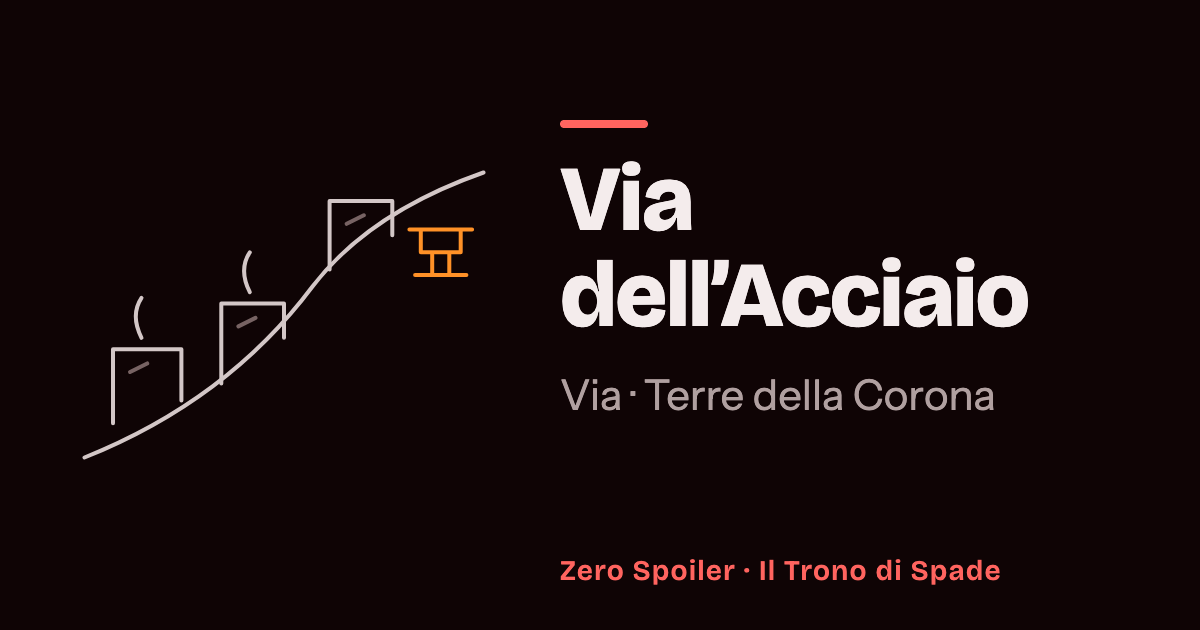
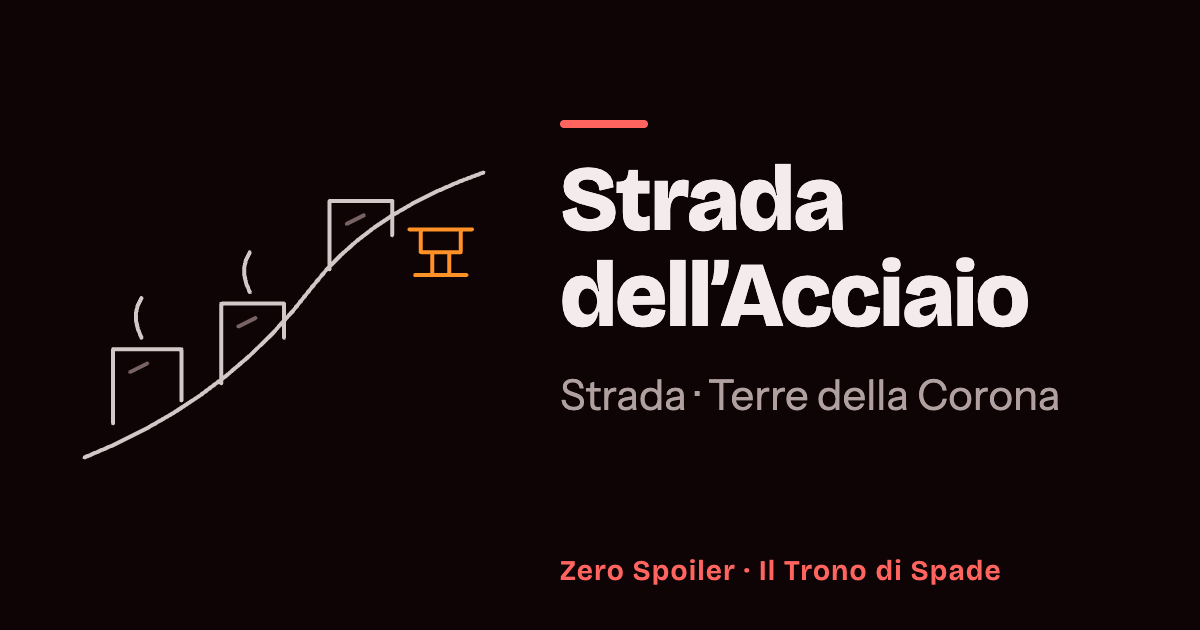
fix(thrones): call the two streets Strada, as Italian Wikipedia's pages do
Italian Wikipedia writes the Street of Steel as strada dell'Acciaio and gives
every named road on its places page the same word. Regenerate the two Italian
cards, correct the form label and the provenance notes.

Changed region(s): [[0.4625, 0.2413, 0.7092, 0.3921], [0.4625, 0.6032, 0.8942, 0.6635]]

diff --git a/src/data/series/game-of-thrones/records/season-1.ts b/src/data/series/game-of-thrones/records/season-1.ts
@@ -2918,7 +2918,7 @@ export const season1: ThronesSaga = {
       kind: 'place',
       revealedAtEpisode: 4,
       revealedAtChapter: 19,
-      name: { it: 'Via delle Sorelle', en: 'the Street of the Sisters' },
+      name: { it: 'Strada delle Sorelle', en: 'the Street of the Sisters' },
       summary: {
         it: 'Una delle strade principali di Approdo del Re.',
         en: 'One of the main streets of King’s Landing.',
@@ -2933,7 +2933,7 @@ export const season1: ThronesSaga = {
       kind: 'place',
       revealedAtEpisode: 4,
       revealedAtChapter: 28,
-      name: { it: 'Via dell’Acciaio', en: 'the Street of Steel' },
+      name: { it: 'Strada dell’Acciaio', en: 'the Street of Steel' },
       summary: {
         it: 'Una strada di fabbri e armaioli ad Approdo del Re.',
         en: 'A street of smiths and armourers in King’s Landing.',

diff --git a/src/data/series/game-of-thrones/placeWords.ts b/src/data/series/game-of-thrones/placeWords.ts
@@ -44,7 +44,7 @@ export const GAME_OF_THRONES_PLACE_WORDS: PlaceWords<ThronesVocabulary> = {
     'river': { en: 'River', it: 'Fiume' },
     'ruin': { en: 'Ruin', it: 'Rovine' },
     'sept': { en: 'Sept', it: 'Tempio' },
-    'street': { en: 'Street', it: 'Via' },
+    'street': { en: 'Street', it: 'Strada' },
     'town': { en: 'Town', it: 'Borgo' },
   },
 }

diff --git a/docs/content-provenance/game-of-thrones-season-1-places.md b/docs/content-provenance/game-of-thrones-season-1-places.md
@@ -205,7 +205,8 @@ under its key in `game-of-thrones.json`.
 
 ### `the-twins`
 
-- Italian "Forca Verde" for the Green Fork is assumed, not confirmed.
+- Italian "Forca Verde" for the Green Fork is on Italian Wikipedia's places
+  page; this text no longer names the river (#1252).
 
 ### `great-sept-of-baelor`
 
